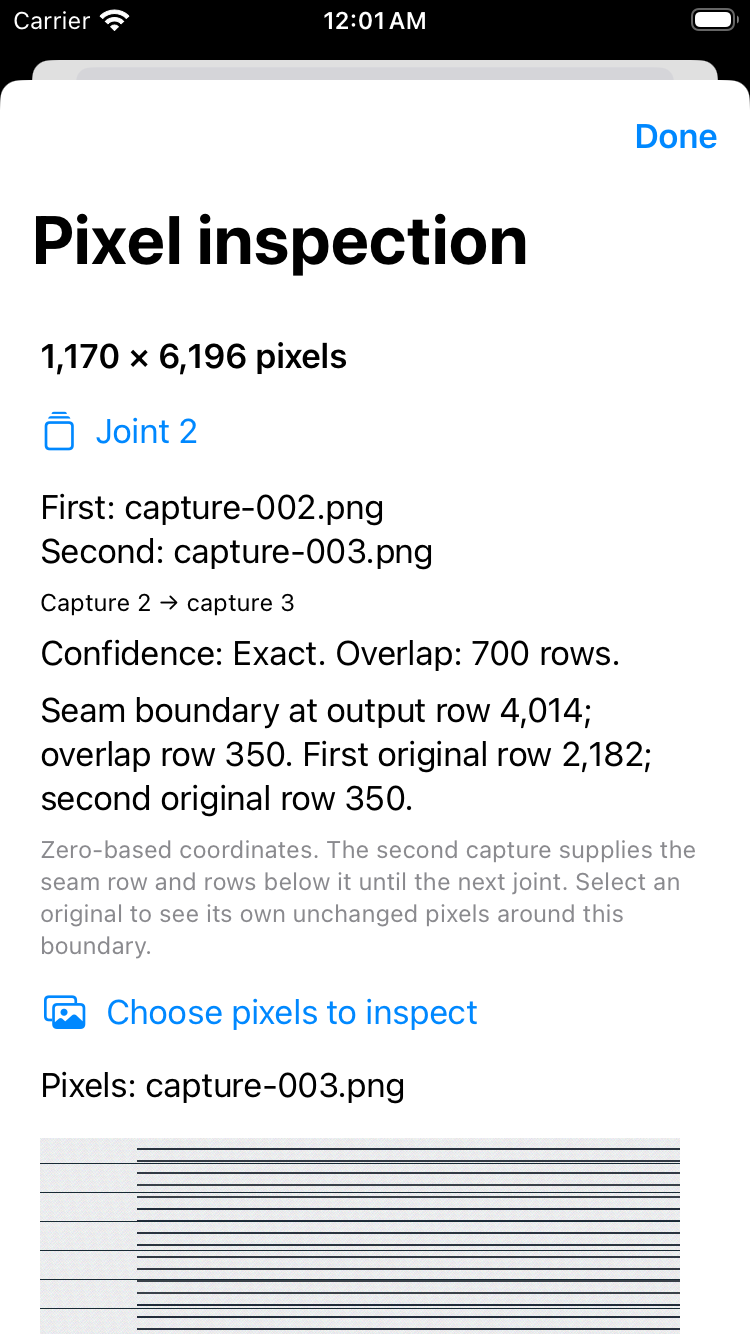
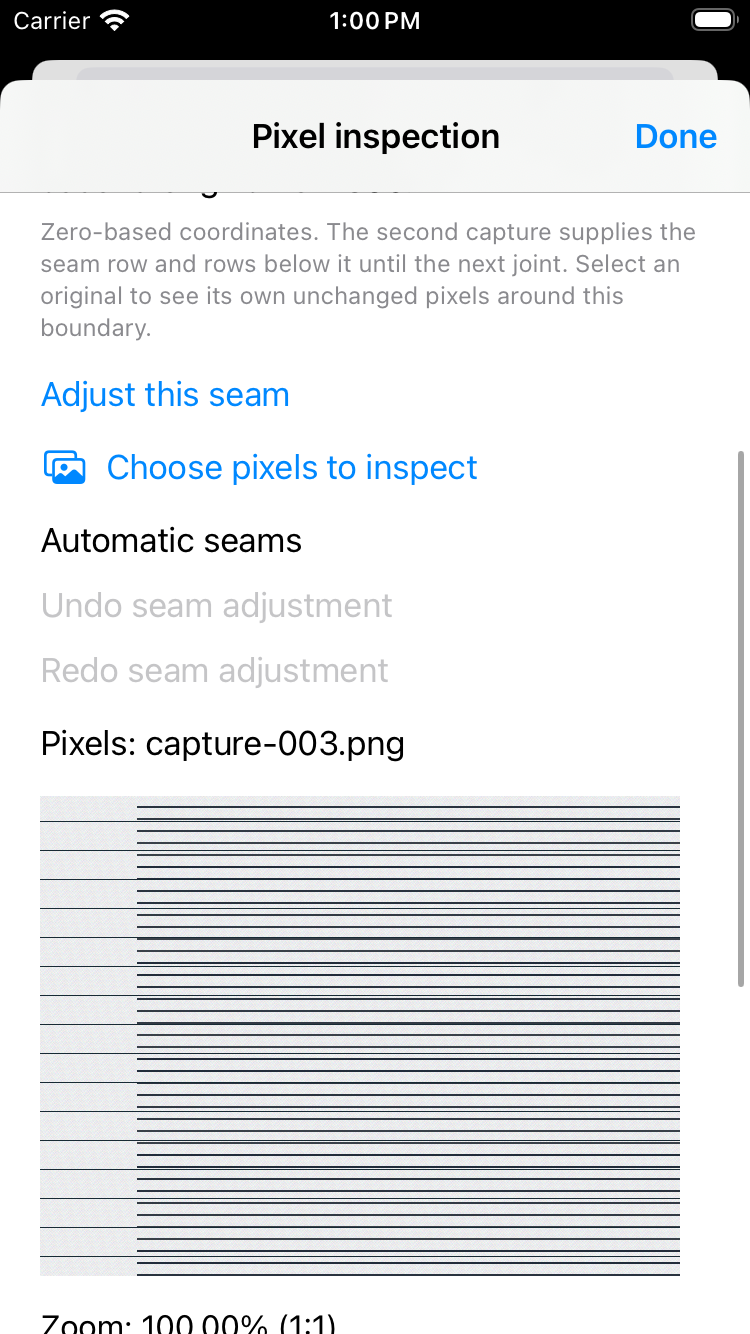
Record verified editing gates and refresh the current app gallery

diff --git a/docs/tasks/README.md b/docs/tasks/README.md
@@ -16,9 +16,9 @@ unmerged packet is renumbered on port (see task 0009 for the PR #8 example).
 Completed packets below are historical evidence, not queued work. Continue from
 current `main`; never restart a superseded branch.
 
-1. **[0020](0020-nondestructive-seam-adjustment.md)** and
-   **[0021](0021-repository-health-and-product-handoff.md):** seam editing and
-   repository cleanup are in the current integration PR; finish review and CI.
+1. **Review/merge [PR #20](https://github.com/VASEYDEV/TRAKTION/pull/20):**
+   tasks 0020 and 0021 are implemented and verified. The PR is intentionally open;
+   require its current checks before merge, then delete its branch.
 2. **[0022](0022-local-project-persistence.md):** next implementation packet,
    local saved projects. PNG export follows under a separate task.
 3. Physical-device signing/resource verification and production artwork require
@@ -27,7 +27,7 @@ current `main`; never restart a superseded branch.
 
 ## Index
 
-| Task | Title | Milestone | Status | Writer | Landed |
+| Task | Title | Milestone | Status | Writer | Landed / review |
 | --- | --- | --- | --- | --- | --- |
 | [0001](0001-deterministic-foundation.md) | Deterministic Swift foundation | 0–1 | done | Codex | PR #4 |
 | [0002](0002-lab-failure-manifest.md) | Typed failure manifests for `traktion-lab` | 1 | done | Claude | PR #6 |
@@ -48,8 +48,8 @@ current `main`; never restart a superseded branch.
 | [0017](0017-native-png-reconstruction.md) | Native PNG import and supplied-order reconstruction | first native workflow | done | Codex | PR #18 |
 | [0018](0018-project-pr-template.md) | Project-specific pull request template | workflow | done | Codex | PR #17 |
 | [0019](0019-native-pixel-inspection.md) | Native pixel and joint inspection | native inspection | done | Codex | PR #19 |
-| [0020](0020-nondestructive-seam-adjustment.md) | Non-destructive seam adjustment and undo | first editing step | in review | Codex | current PR |
-| [0021](0021-repository-health-and-product-handoff.md) | Repository health and product handoff | workflow/docs | in progress | Codex | current PR |
+| [0020](0020-nondestructive-seam-adjustment.md) | Non-destructive seam adjustment and undo | first editing step | verified | Codex | PR #20 (open) |
+| [0021](0021-repository-health-and-product-handoff.md) | Repository health and product handoff | workflow/docs | verified | Codex | PR #20 (open) |
 | [0022](0022-local-project-persistence.md) | Local project persistence | editor | queued | assign at start | — |
 
 ## Superseded packets and pull requests

diff --git a/assets/screenshots/README.md b/assets/screenshots/README.md
@@ -1,15 +1,21 @@
 # Verified native screenshots
 
 These are unchanged XCTest attachments from synthetic fixtures, not mockups or
-private captures. Both PNGs were visually inspected before inclusion.
+private captures. All three PNGs were visually inspected before inclusion.
+They replace the older task-0019 gallery with the current editing build.
 
-| File | Scenario | Evidence |
+| File | Scenario | Passing XCTest |
 | --- | --- | --- |
-| `reconstruction.png` | Native baseline PNG reconstruction, portrait | Debug `testImportedCapturesRequireConfirmedOrderAndReconstructInBothOrientations` |
-| `joint-original.png` | Joint 2 original-source evidence, portrait | Release `testLongPixelInspectionPanZoomJointSourcesAndReturn` |
+| `reconstruction.png` | Native baseline reconstruction and automatic-seam status | Debug `testImportedCapturesRequireConfirmedOrderAndReconstructInBothOrientations` |
+| `joint-original.png` | Joint 2, second original's pixels | Release `testLongPixelInspectionPanZoomJointSourcesAndReturn` |
+| `seam-adjustment.png` | Applied adjustment, modified result and undo history | Debug `testSeamAdjustmentCancelApplyUndoRedoAndReopen` |
 
-Source: [main CI run 35163939876](https://github.com/VASEYDEV/TRAKTION/actions/runs/35163939876),
-commit `c279264e9d7e552561a7e52ec5368df17e99af84`, artifact
-`traktion-ios-verification` (10474776045), iPhone SE (3rd generation), iOS 26.2.
-These establish the task-0019 build; new editing controls are documented separately.
-The source SVG logo masters remain in `assets/` with their original geometry.
+Source: [successful CI run 35222997795](https://github.com/VASEYDEV/TRAKTION/actions/runs/35222997795),
+commit `1daafd6d013eb4af92d26b2c4061b22e8cb1e1e4`, artifact
+[`traktion-ios-verification` (10498282851)](https://github.com/VASEYDEV/TRAKTION/actions/runs/35222997795/artifacts/10498282851),
+iPhone SE (3rd generation), iOS 26.2, Xcode 16.4. All nine Debug and one Release
+cases passed, including the source-inventory guards.
+
+Landscape draft and XXXL seam-control attachments from this same run were also
+visually reviewed; the original full artifact retains them. The concept artwork
+and official SVG masters are documented separately in [assets](../README.md).

diff --git a/docs/ROADMAP.md b/docs/ROADMAP.md
@@ -7,7 +7,7 @@
 | 0 — Foundation | complete | PR #4, PR #5 |
 | 1 — Exact static reconstruction | passed with measured platform evidence | corpus categories (0011), failure artifacts (0012), and gap regression repair (0014) landed; memory/throughput instrumentation (0013) verified on Linux and macOS in PR #16 |
 | 2 — Sequence intelligence | in progress | exact ordering core (task 0007), tooling (task 0008), near-exact recovery (task 0009), repeated-chrome guard (0010), and bounded directional ambiguity guard (0014) landed; broader duplicates, missing-coverage evidence, and confidence workflows remain open |
-| Native iOS app | first reversible editor in review | task 0019 / PR #19 established import/reconstruction and bounded inspection; task 0020 adds seam apply/cancel/undo/redo; physical-device signing remains separate |
+| Native iOS app | first reversible editor verified; PR open | task 0019 / PR #19 established import/reconstruction and bounded inspection; task 0020 / PR #20 adds seam apply/cancel/undo/redo; nine Debug + one Release simulator cases verified; physical-device signing remains separate |
 | 3 — Non-destructive editor | started | bounded inspector (0019), deliberate seam adjustment (0020); saved projects and further correction remain |
 | 4–7 | not started | Product backlog below |
 
@@ -39,8 +39,9 @@ Horizontal reconstruction, web capture, share extension, PDF, JPEG/HEIC, split e
 
 ## Next execution order
 
-1. Complete review and required CI for tasks [0020](tasks/0020-nondestructive-seam-adjustment.md)
-   and [0021](tasks/0021-repository-health-and-product-handoff.md); leave the combined PR open.
+1. Review/merge verified tasks [0020](tasks/0020-nondestructive-seam-adjustment.md)
+   and [0021](tasks/0021-repository-health-and-product-handoff.md) in open PR #20,
+   requiring its current CI checks; remove its branch after merge.
 2. Implement [0022](tasks/0022-local-project-persistence.md): versioned, local saved
    projects with original captures and validated edit plans.
 3. Define bounded PNG export under its own packet, then further correction tools.

diff --git a/docs/tasks/0021-repository-health-and-product-handoff.md b/docs/tasks/0021-repository-health-and-product-handoff.md
@@ -1,6 +1,6 @@
 # Task: Repository health and product handoff
 
-Status: in progress — Codex owns the integration branch; independent audits complete.
+Status: done — verified in [PR #20](https://github.com/VASEYDEV/TRAKTION/pull/20); PR remains open for review/merge.
 
 ## Goal
 Reconcile all open PRs, branches and old checkouts; preserve useful work; leave
@@ -17,13 +17,15 @@ accurate product documentation, visuals, dependency/CI evidence and a clean open
 - Integrate independently owned task 0020 after its implementation and review.
 
 ## Acceptance criteria
-- [ ] No useful implementation is discarded during cleanup.
-- [ ] Current main and historical CI results are documented with exact run links.
-- [ ] Missing/failed/duplicate/wrong-phase native tests cannot produce a green gate.
-- [ ] README and visuals distinguish current behavior from planned capabilities.
-- [ ] Dependency inventory, changelog, roadmap and active todo list agree.
-- [ ] All changes are committed and pushed in an open PR; final-head CI passes.
+- [x] No useful implementation is discarded during cleanup.
+- [x] Current main and historical CI results are documented with exact run links.
+- [x] Missing/failed/duplicate/wrong-phase native tests cannot produce a green gate.
+- [x] README and visuals distinguish current behavior from planned capabilities.
+- [x] Dependency inventory, changelog, roadmap and active todo list agree.
+- [x] All changes are committed and pushed in an open PR; verified implementation evidence is linked and current-head CI remains a merge requirement.
 
 Existing remote PRs may be squash-merged after review. New work remains in an
 open PR as requested. Historical ADRs, task packets and measured reports remain
 evidence rather than active work.
+
+Full implementation verification: [run 35222997795](https://github.com/VASEYDEV/TRAKTION/actions/runs/35222997795) at `1daafd6d013eb4af92d26b2c4061b22e8cb1e1e4`; all five jobs passed. The current PR checks remain required after documentation updates.

diff --git a/docs/notes/2026-09-17-seam-editing.md b/docs/notes/2026-09-17-seam-editing.md
@@ -83,3 +83,24 @@ reveal helper: a `for ... where !isHittable` loop still queried all 20 iteration
 after the target was visible. It now breaks as soon as the target is hittable,
 retaining the same 20-drag bound and final existence/hittability assertions.
 This removes repeated snapshots without changing scrolling geometry or coverage.
+
+## Verified implementation closure
+
+[Run 35222997795](https://github.com/VASEYDEV/TRAKTION/actions/runs/35222997795) at `1daafd6d013eb4af92d26b2c4061b22e8cb1e1e4` passed all five jobs. Linux and Apple each
+ran 189 XCTest cases, PNG smoke, 45/45 evaluations and both isolated performance
+cases. Native verification passed **nine Debug cases** in 312.551 seconds
+and the unchanged **one full-phone Release case** in 61.950 seconds.
+Both source-inventory guards passed; there were no failed/retried/timed-out case
+records. The focused XXXL scenarios and early-exit reveal helper resolve the
+first run's test-structure failure without increasing limits or dropping checks.
+
+Applied-history, landscape-draft and XXXL seam-control attachments from the
+successful run were actually inspected. The modified state/history, draft
+boundary and accessible controls are visible. An unmodified editor screenshot
+is retained in the README gallery with exact provenance.
+
+Tasks 0020/0021 are complete in [PR #20](https://github.com/VASEYDEV/TRAKTION/pull/20),
+which remains open as requested. Task 0022 is the next implementation packet.
+This records the verified implementation run; current PR checks remain the
+merge gate after documentation/artwork changes. Final-head CI is recorded in
+the PR rather than creating another documentation-only verification cycle.

diff --git a/docs/notes/2026-09-17-repository-health.md b/docs/notes/2026-09-17-repository-health.md
@@ -120,3 +120,24 @@ scenario exceeded the unchanged per-case execution allowance; a later passing
 line did not make the overall failed run acceptable. Its viewport and seam
 accessibility scenarios are split with every assertion retained. See the
 [seam note](2026-09-17-seam-editing.md) for the exact evidence and next-run result.
+
+## Verified implementation closure
+
+[Run 35222997795](https://github.com/VASEYDEV/TRAKTION/actions/runs/35222997795) at `1daafd6d013eb4af92d26b2c4061b22e8cb1e1e4` passed all five jobs. Linux and Apple each
+ran 189 XCTest cases, PNG smoke, 45/45 evaluations and both isolated performance
+cases. Native verification passed **nine Debug cases** in 312.551 seconds
+and the unchanged **one full-phone Release case** in 61.950 seconds.
+Both source-inventory guards passed; there were no failed/retried/timed-out case
+records. The focused XXXL scenarios and early-exit reveal helper resolve the
+first run's test-structure failure without increasing limits or dropping checks.
+
+Applied-history, landscape-draft and XXXL seam-control attachments from the
+successful run were actually inspected. The modified state/history, draft
+boundary and accessible controls are visible. An unmodified editor screenshot
+is retained in the README gallery with exact provenance.
+
+Tasks 0020/0021 are complete in [PR #20](https://github.com/VASEYDEV/TRAKTION/pull/20),
+which remains open as requested. Task 0022 is the next implementation packet.
+This records the verified implementation run; current PR checks remain the
+merge gate after documentation/artwork changes. Final-head CI is recorded in
+the PR rather than creating another documentation-only verification cycle.

diff --git a/docs/tasks/0020-nondestructive-seam-adjustment.md b/docs/tasks/0020-nondestructive-seam-adjustment.md
@@ -1,6 +1,6 @@
 # Task: Non-destructive seam adjustment and undo
 
-Status: in progress — implementation and portable verification complete; native CI remains required.
+Status: done — verified in [PR #20](https://github.com/VASEYDEV/TRAKTION/pull/20); PR remains open for review/merge.
 
 ## Goal
 Allow deliberate seam selection inside an already proven overlap, with a visible
@@ -28,11 +28,13 @@ persistence, export, semantic review and production signing/distribution.
 - [x] Undo/redo restore exact plans and pixels, including after several joints.
 - [x] Import/reset/cancellation cannot publish an old edited result.
 - [x] Resource and off-main behavior cover phone-size and long synthetic inputs.
-- [ ] Actual simulator tests cover accessible adjustment controls and undo/redo.
-- [ ] Existing core/PNG/native gates, ADR and independent review pass.
+- [x] Actual simulator tests cover accessible adjustment controls and undo/redo.
+- [x] Existing core/PNG/native gates, ADR and independent review pass.
 
 One writer owns implementation. Independently review source selection, seam
 boundaries, undo history, confidence preservation and resource ownership.
 
 Implementation decision: [ADR-023](../adr/ADR-023-reversible-seam-selection.md).
 Verification: [2026-09-17 note](../notes/2026-09-17-seam-editing.md).
+
+Full implementation verification: [run 35222997795](https://github.com/VASEYDEV/TRAKTION/actions/runs/35222997795) at `1daafd6d013eb4af92d26b2c4061b22e8cb1e1e4`; all five jobs passed. The current PR checks remain required after documentation updates.

diff --git a/README.md b/README.md
@@ -51,11 +51,13 @@ signing, and broader capture modes remain on the [roadmap](docs/ROADMAP.md).
 
 <p align="center">
   <img src="assets/screenshots/reconstruction.png" alt="Verified iOS reconstruction preview and exact joint labels" width="260">
-  <img src="assets/screenshots/joint-original.png" alt="Verified joint inspector showing original capture coordinates and confidence" width="260">
+  <img src="assets/screenshots/joint-original.png" alt="Original capture pixels in the verified native joint inspector" width="260">
+  <img src="assets/screenshots/seam-adjustment.png" alt="Applied seam adjustment with modified result and undo history" width="260">
 </p>
 
-These are unmodified simulator captures from the verified inspection build using
-synthetic documents. They show actual behavior, not a future design mockup.
+These are unmodified simulator captures from the verified editing build using
+synthetic documents: reconstruction, original-source comparison, and reversible
+seam adjustment. They show actual behavior, not a future design mockup.
 [Capture provenance](assets/screenshots/README.md) identifies the tests and commit.
 The established amber logo is retained; production app-icon packaging and visual
 polish remain release work.

diff --git a/docs/runbooks/ios-development.md b/docs/runbooks/ios-development.md
@@ -41,7 +41,7 @@ The verification sequence is:
    release CLI process, install the app, and copy only capture PNGs into the
    dedicated simulator app container. Source truth/manifests stay outside it.
 5. Launch and run all small-input Debug XCTest scenarios for real import, supplied order,
-   reconstruction/refusals, reset, rotation, larger text (including inspection)
+   reconstruction/refusals, reset, rotation, larger text (including inspection),
    deliberate seam apply/cancel/undo/redo, and actual Files picker cancellation.
 6. Build/install a Release test app and run the same full-size phone inspection
    scenario with production optimization. The `TRAKTION_UI_FIXTURE` bootstrap
